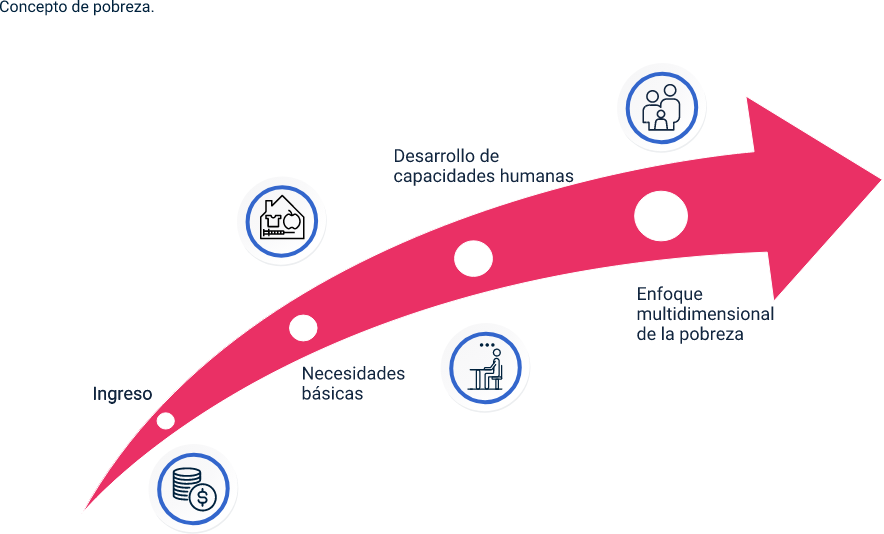
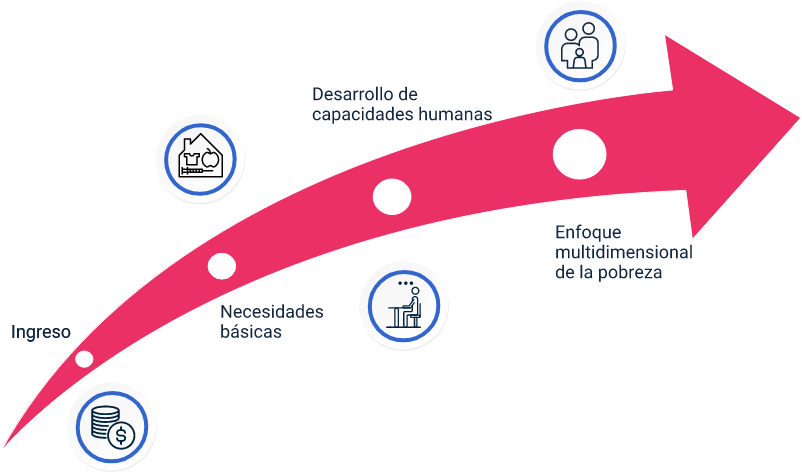
Se realizan correcciones de diseño.

Changed region(s): [[0.0, 0.0, 0.9975, 1.0], [0.0, 0.0, 0.187, 0.0297], [0.0, 0.8898, 0.0312, 0.9492]]

diff --git a/src/views/curso/Tema1.vue b/src/views/curso/Tema1.vue
@@ -25,12 +25,12 @@
 
     p.mb-5 La siguiente figura describe el desarrollo concepto de pobreza.
 
-
+    .h5.mb-5.text-center Concepto de pobreza
     figure.mb-5
       img.img-a(src='@/assets/curso/tema_1/img_8.png', alt='Texto que describa la imagen')
       figcaption Nota: con base en Barzán, Quintero y Hernández (2011).
 
-    TabsC.mb-5
+    TabsC.tarjeta.tarjeta--azul.mb-5
       .py-3.py-md-4(titulo="Años 40")
         .row
           .col-md-6
@@ -55,7 +55,7 @@
         .row
           .col-md-6
             figure
-              img.img-a(src='@/assets/curso/tema_1/img_32.png', alt='Texto que describa la imagen')
+              img.img-a(src='@/assets/curso/tema_1/img_33.png', alt='Texto que describa la imagen')
           .col-md-6.mb-4.mb-md-0
             .h4 Dos últimas décadas del siglo XX
             p El enfoque de necesidades básicas continua consolidándose, ampliando sus posibilidades para caracterizar la pobreza con información sobre el desarrollo de las “capacidades” humanas que no se ven reflejadas en el ingreso, lo cual ha permitido en diferentes lugares su oficialización en los marcos normativos, tal como sucedió con el índice de Necesidades Básicas Insatisfechas (NBI), que se extendió en Latinoamérica debido a las contribuciones de la Comisión Económica Para América Latina y el Caribe (CEPAL), (Barzán Ojeda, Quintero Soto, & Hernández Espitia, 2011).
@@ -66,7 +66,7 @@
         .row
           .col-md-6.mb-4.mb-md-0
             figure
-              img.img-a(src='@/assets/curso/tema_1/img_33.png', alt='Texto que describa la imagen')
+              img.img-a(src='@/assets/curso/tema_1/img_34.png', alt='Texto que describa la imagen')
           .col-md-6
             .h4 Principios del nuevo milenio
             p El estudio multidimensional de la pobreza ya se encuentra mucho más arraigado, contando con iniciativas como los Objetivos de Desarrollo del Milenio (ODM), firmada por 189 países, y la presentación del índice de Pobreza Multidimensional (IPM), el cual fue adoptado como metodología de medición de pobreza en varios países.  
@@ -98,9 +98,11 @@
 
     p.mb-5 A continuación, se presentan cada una de estas metodologías, así como su estado para el año 2019:
 
-    p.mb-5 Modelos de medición de pobreza en Colombia.
+    .h5.text-center.mb-5 Modelos de medición de pobreza en Colombia.
 
-    img.mb-5.img-a(src="@/assets/curso/tema_1/img_9.png")
+    figure.mb-5
+      img.img-a(src='@/assets/curso/tema_1/img_9.png', alt='Nota: con base en Datos Encuesta de Calidad de Vida - ECV, 2018-2019 (DANE, 2020).')
+      figcaption.mt-3 Nota: con base en Barzán, Quintero y Hernández (2011).
 
     .titulo-segundo
       #t_1_1.h4 1.1	Pobreza monetaria
@@ -135,14 +137,17 @@
 
     .row.mb-5
       .col-lg-6
-        p.mb-5 Incidencia pobreza monetaria en Colombia 2018 - 2019.
-        img.mb-3.img-a(src="@/assets/curso/tema_1/img_12.png")
-        p Nota: DANE (2020). Cálculos con base en la Gran Encuesta Integrada de 
-        | Hogares 2018-2019.
+        .h5.text-center.mb-5 Incidencia pobreza monetaria en Colombia 2018 - 2019.
+        figure
+          img.img-a(src='@/assets/curso/tema_1/img_12.png', alt='Nota: con base en Datos Encuesta de Calidad de Vida - ECV, 2018-2019 (DANE, 2020).')
+          figcaption.mt-2 Nota: DANE (2020). Cálculos con base en la Gran Encuesta Integrada de 
+            br 
+            | Hogares 2018-2019.
       .col-lg-6
-        p.mb-5 Distribución del ingreso per cápita de la unidad de gasto y líneas de pobreza monetaria y pobreza monetaria extrema.
-        img.mb-3.img-a(src="@/assets/curso/tema_1/img_13.png")
-        p Nota: DANE (2020). Cálculos con base en la Gran Encuesta Integrada de Hogares.
+        .h5.mb-5 Distribución del ingreso per cápita de la unidad de gasto y líneas de pobreza monetaria y pobreza monetaria extrema.
+        figure
+          img.img-a(src='@/assets/curso/tema_1/img_13.png', alt='Nota: con base en Datos Encuesta de Calidad de Vida - ECV, 2018-2019 (DANE, 2020).')
+          figcaption.mt-3 Nota: DANE (2020). Cálculos con base en la Gran Encuesta Integrada de Hogares.
 
 
     .titulo-segundo
@@ -201,9 +206,11 @@
                 .h5.mb-3 5. Condiciones de la vivienda
                 p Contemplar las condiciones de la vivienda responde a que el acceso a los servicios públicos domiciliarios permite un pleno desarrollo de las actividades del hogar y mejora el bienestar de los individuos (DANE, 2014). 
 
-    p.mb-5 Pobreza multidimensional, dimensiones e indicadores.
+    .h5.text-center.mb-3 Pobreza multidimensional, dimensiones e indicadores.
 
-    img.mb-5.img-a(src="@/assets/curso/tema_1/img_19.png")
+    figure.mb-5
+      img.img-a(src='@/assets/curso/tema_1/img_19.png', alt='Nota: con base en Datos Encuesta de Calidad de Vida - ECV, 2018-2019 (DANE, 2020).')
+      figcaption.mt-3 Nota: con base en Barzán, Quintero y Hernández (2011).
 
     p.mb-5 Para la medición, cada una de estas dimensiones cuenta con un el mismo valor de 0,2, lo que sumados da un total de 1,0. En cada dimensión hay un grupo de indicadores (15 en total), los cuales cuentan con una ponderación diferente, pero sumados en cada una de sus dimensiones da el valor de 0,2. Un hogar es considerado pobre multidimensional cuando presenta al menos el 0,33 (33%) de privaciones en los 15 indicadores y cinco (5) dimensiones que componen el ejercicio de medición (DNP - Conpes, 2012).
 
@@ -232,11 +239,11 @@
                 span Descargar
                 i.fas.fa-file-download
 
-    p.mb-5 Pobreza multidimensional en Colombia (2019).
+    .h5.text-center.mb-3 Pobreza multidimensional en Colombia (2019).
 
     figure.mb-5
       img.img-a(src='@/assets/curso/tema_1/img_23.png', alt='Nota: con base en Datos Encuesta de Calidad de Vida - ECV, 2018-2019 (DANE, 2020).')
-      figcaption Nota: con base en Barzán, Quintero y Hernández (2011).
+      figcaption.mt-3 Nota: con base en Barzán, Quintero y Hernández (2011).
 
     p.mb-5 Estos datos permiten identificar y evaluar las acciones que en materia de políticas públicas ya se han adelantado, se están adelantando o se deberían adelantar con el fin de garantizar la mejora de la calidad de vida de los hogares más vulnerables y un ambiente que permita un adecuado desarrollo humano.
 
@@ -275,11 +282,11 @@
       
     .h4.mb-5 Revisar con detenimiento la siguiente figura donde se presentan los cuadrantes de pobreza.
 
-    p.mb-5 Cuadrantes de pobreza.
+    .h5.text-center.mb-5 Cuadrantes de pobreza.
 
     figure.mb-5
       img.mb-2.img-a(src='@/assets/curso/tema_1/img_25.png', alt='Nota: con base en Datos Encuesta de Calidad de Vida - ECV, 2018-2019 (DANE, 2020).')
-      figcaption Nota: con base en Prosperidad Social (2020).
+      figcaption.mt-3 Nota: con base en Prosperidad Social (2020).
 
     p.mb-3 Para su desarrollo, la Ruta establece como punto de partida la Estrategia Red Unidos, en la cual los hogares son caracterizados para identificar los factores que determinan su situación de pobreza y posteriormente podrán ser enrutados a los diferentes programas con los que cuenta Prosperidad Social, de acuerdo con los criterios de focalización y presupuestales de cada uno de ellos. Esto permite que los hogares experimenten un proceso de vinculación social y productiva en donde puedan garantizar el acceso prioritario a programas de educación, salud y complementarios que les permita trabajar sus habilidades para la vida y oportunidades productivas; lo cual, acompañado a la debida infraestructura social y un incentivo al consumo, hará que los hogares tengan las herramientas para salir de su situación de pobreza. Finalmente, se lleva a cabo la evaluación del recorrido realizado, los programas en los que ha participado y los resultados obtenidos, con el fin de vincular el hogar a la oferta pública restante que les permita continuar con su proceso de manera sostenida.
 
@@ -399,7 +406,7 @@
                   img.img-a(src="@/assets/curso/tema_1/img_24.png").img-fluid
               .list__txt
                 p.m-top #[strong Emprendimiento y proyectos productivos inclusivos:] acompañamiento para la formulación e implementación de planes de negocio para la creación de unidades productivas, promoción de instrumentos financieros flexibles, acompañamiento técnico para la sostenibilidad de las unidades productivas y provisión de infraestructura productiva.  
-    p.mb-5 Ruta de Superación de Pobreza - Prosperidad Social.       
+    .h5.text-center.mb-3 Ruta de Superación de Pobreza - Prosperidad Social.       
 
     figure.mb-5
       img.img-a(src='@/assets/curso/tema_1/img_30.png', alt='Nota: con base en Datos Encuesta de Calidad de Vida - ECV, 2018-2019 (DANE, 2020).')

diff --git a/src/views/curso/Tema2.vue b/src/views/curso/Tema2.vue
@@ -110,11 +110,11 @@
 
     .h4.mb-5 El siguiente diagrama determina los cambios que se pueden producir en la población dada la intervención que reciben los beneficiarios. Teoría de cambio.
 
-    p.mb-5 Cambios en población beneficiaria
+    .h5.text-center.mb-3 Cambios en población beneficiaria
 
     figure.mb-5
       img.img-a(src='@/assets/curso/tema_2/img_6.png', alt='Nota: con base en Datos Encuesta de Calidad de Vida - ECV, 2018-2019 (DANE, 2020).')
-      figcaption Nota: con base en Prosperidad Social (2020)
+      figcaption.mt-3 Nota: con base en Prosperidad Social (2020)
 
     p.mb-3 Son participantes del programa aquellas familias/hogares en condiciones de pobreza y pobreza extrema, dentro del contexto de las metodologías vistas anteriormente y focalizadas de acuerdo con cuatro fuentes de información: Sisbén III, Estrategia Red Unidos, Registro único de población víctima y listado censal indígena. Posteriormente se procede a la inscripción, la cual formaliza la vinculación voluntaria de los hogares al programa por medio de la captura de información en el Sistema de Información de Familias en Acción (SIFA) y el establecimiento de los compromisos para el cumplimiento de las corresponsabilidades que garanticen el incentivo económico y su permanencia en el programa.
 
@@ -274,9 +274,11 @@
 
     p.mb-5 Cuando el retiro se da por causales asociadas al control de calidad de la información, cumplimiento de metas y algunas de procesos operativos, se surte un proceso de suspensión preventiva de carácter temporal, mientras se culminan las etapas del debido proceso administrativo, mediante las cuales se reportan elementos por parte de los participantes y se decide sobre su continuidad o retiro definitivo del programa (DPS, 2019).
 
-    p.mb-3 Desarrollo operativo Familias en Acción.
+    .h5.text-center.mb-3 Desarrollo operativo Familias en Acción.
 
-    img.mb-5.img-a(src="@/assets/curso/tema_2/img_22.png").img-fluid
+    figure.mb-5
+      img.img-a(src='@/assets/curso/tema_2/img_22.png', alt='Nota: con base en Datos Encuesta de Calidad de Vida - ECV, 2018-2019 (DANE, 2020).')
+      figcaption.mt-3 Nota: con base en Prosperidad Social (2020).
 
     p.mb-5 El componente de bienestar comunitario busca fortalecer las capacidades individuales y colectivas de las familias participantes en el programa Familias en Acción; para ello, se desarrollan acciones a través de dos líneas de acción: participación social y articulación institucional. 
 
@@ -301,12 +303,12 @@
 
     p.mb-5 En las actividades del componente se incorporan, de manera transversal, elementos del enfoque diferencial y acciones para el fortalecimiento de las competencias ciudadanas y comunitarias de los participantes y sus familias.
 
-    p.mb-3 Desarrollo operativo Familias en Acción.
+    .h5.text-center.mb-5 Desarrollo operativo Familias en Acción.
 
 
     figure.mb-5
       img.img-a(src='@/assets/curso/tema_2/img_23.png', alt='Nota: con base en Datos Encuesta de Calidad de Vida - ECV, 2018-2019 (DANE, 2020).')
-      figcaption Nota: con base en Prosperidad Social (2020).
+      figcaption.mt-3 Nota: con base en Prosperidad Social (2020).
 
     p.mb-5 A partir de la ejecución del componente de bienestar comunitario se busca promover:
 
@@ -353,10 +355,13 @@
 
     p.mb-5 En conclusión:
 
-    .row.mb-5
-      .col-lg-10.mb-5.mb-lg-0
-        .bloque-texto-b.p-4.mb-3
-          .bloque-texto-b__texto.h3.mb-0 Familias en Acción es un programa de transferencias monetarias condicionadas cuyo centro de atención son las familias, principalmente con niños, niñas y adolescentes, que proporciona las herramientas para solventar su situación actual de pobreza y desarrollar las capacidades que le permitirán mantenerse por fuera de esta condición de manera sostenida, aportando a la protección y restitución de derechos de los niños, niñas y adolescentes, que no cuentan con las condiciones para poder ejercerlos de manera plena, al mismo tiempo que se generan las condiciones para que tengan trayectorias escolares extensas y robustas garantizando que puedan adaptarse a una sociedad caracterizada por el cambio permanente.
+    .cajon--azul.p-4.mb-5
+      .row.align-items-center
+        .col-lg-4
+          img.img-a(src="@/assets/curso/tema_2/img_32.png")
+        .col-lg-8
+          p Familias en Acción es un programa de transferencias monetarias condicionadas cuyo centro de atención son las familias, principalmente con niños, niñas y adolescentes, que proporciona las herramientas para solventar su situación actual de pobreza y desarrollar las capacidades que le permitirán mantenerse por fuera de esta condición de manera sostenida, aportando a la protección y restitución de derechos de los niños, niñas y adolescentes, que no cuentan con las condiciones para poder ejercerlos de manera plena, al mismo tiempo que se generan las condiciones para que tengan trayectorias escolares extensas y robustas garantizando que puedan adaptarse a una sociedad caracterizada por el cambio permanente.
+
 
     .titulo-segundo
       #t_2_2.h4 2.2	Jóvenes en Acción

diff --git a/src/views/Introduccion.vue b/src/views/Introduccion.vue
@@ -73,7 +73,7 @@
         .col-lg-8
           p Teniendo en cuenta lo anterior, en el presente componente formativo se profundiza en estos conceptos, de tal manera que el aprendiz al finalizar el estudio, tendrá la posibilidad de comprender el impacto que la pobreza tiene en la sociedad colombiana, las iniciativas adelantadas desde el sector público para mitigarlas y cómo operan dichas iniciativas en favor de la protección de los niños, niñas y adolescentes, garantizando las condiciones que permitan el máximo goce de sus derechos y desarrollo pleno de sus capacidades.
 
-    p.mb-5 Esquema del documento.
+    .h4.mb-5.text-center Esquema del documento
 
     img.img-a(src="@/assets/curso/tema_1/img_7.png")
 

diff --git a/src/views/curso/Tema3.vue b/src/views/curso/Tema3.vue
@@ -169,6 +169,8 @@
           .list__txt
             p.m-top Mesa de infancia y adolescencia y fortalecimiento familiar.
 
+    .h5.text-center.mb-3 Ruta estrategia de alertas para la permanencia escolar y protección integral de niños, niñas y adolescentes
+
     .tabla-a.mb-5 
       table
         caption Nota: con base en Prosperidad Social (2020)

diff --git a/src/styles/basicos/_links-botones.sass b/src/styles/basicos/_links-botones.sass
@@ -26,8 +26,7 @@ a
     padding: 5px 10px
 
   &--b
-    background-color: #EA3065
-    span, i
-      color: $white
+    background-color: $color-curso-c
+    
     &:active, &:focus, &:hover
-      background-color: #EA3065
+      background-color: $color-curso-c

diff --git a/src/styles/_custom.sass b/src/styles/_custom.sass
@@ -96,3 +96,6 @@
 .color-table
   background-color: #3366CC
   color: white !important
+
+.tamano_titulo
+  font-size: 20px
